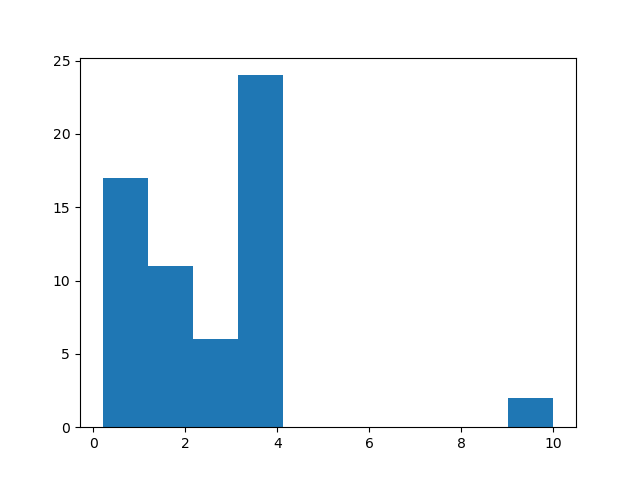
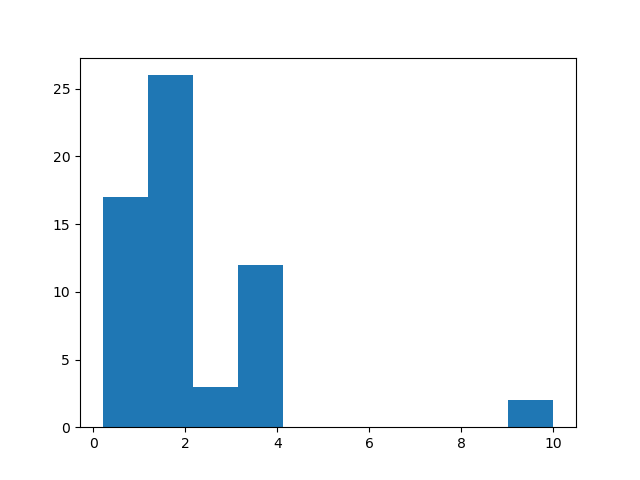
instead of allocating to top server, fifo: 2.2s, leastCon: 2.3408s between the top 20% capacity servers

diff --git a/assignment2/jobScheduler.cpp b/assignment2/jobScheduler.cpp
@@ -20,7 +20,7 @@ using namespace std;
 #include <random>
 #include <queue>
 
-// #define DEBUG 1
+#define DEBUG 1
 #define INITAL_CAPACITY -1
 #define NO_SEND ""
 
@@ -49,6 +49,12 @@ set<string> queried_servers; // Set<ServerName>
 set<string> capacity_query_packets; // Set<FileName>
 queue<string> accumulated_jobs; // Queue<Request>
 set<string> accumulated_jobs_set; // Set<Request>
+map<string, set<string>> server_to_job_map; // Map<ServerName,  Set<FileName>>
+
+// array of top capacity servers,
+vector<string> top_servers; 
+double TOP_SERVERS_PERCENTAGE_SIZE = 0.2;
+size_t TOP_SERVERS_LENGTH = 0; // inits with SERVER_COUNT
 
 size_t SERVER_COUNT = 0;
 
@@ -83,6 +89,7 @@ void printAllServerInfo() {
 
 void initalizeServerInfo(vector<string> server_names) {
     SERVER_COUNT = server_names.size();
+    TOP_SERVERS_LENGTH = TOP_SERVERS_PERCENTAGE_SIZE * SERVER_COUNT;
     for (size_t i = 0; i < server_names.size(); i++) {
         string server_name = server_names[i];
 
@@ -93,6 +100,12 @@ void initalizeServerInfo(vector<string> server_names) {
         si.queue_total_wait_time = 0;
         si.server_capacity = INITAL_CAPACITY;
         server_info_map[server_name] = si;
+        // ----------------------------------------------------
+
+        // ----------------------------------------------------
+        // server_to_job_map
+        set<string> jobs;
+        server_to_job_map[server_name] = jobs;
         // ----------------------------------------------------
     }
 }
@@ -142,11 +155,13 @@ void updateServerInfo(string file_name) {
     num_files_received++;
     #endif
 
+    string assigned_server = job_to_server_allocation_map[file_name];
+    server_to_job_map[assigned_server].erase(file_name); // update which job goes to which server
+
     if (!hasMetadata(file_name)) {
         return;
     }
 
-    string assigned_server = job_to_server_allocation_map[file_name];
     time_t duration = getNowInMilliseconds() - request_start_time_map[file_name];
 
     int size = job_size_map[file_name];
@@ -197,9 +212,13 @@ void insertMetadataBeforeSend(string server_name, string file_name, int request_
 }
 
 string fifoAllocation(vector<string> server_names) {
+    if (server_names.size() == 0) {
+        throw invalid_argument("fifoAllocation server_names provided empty!");
+    }
+
     string server_name = server_names[fifo_index];
     fifo_index++;
-    fifo_index = fifo_index % SERVER_COUNT;
+    fifo_index = fifo_index % server_names.size();
 
     #ifdef DEBUG
     cout << "FIFO ALLOCATED: " << server_name << endl;
@@ -209,6 +228,10 @@ string fifoAllocation(vector<string> server_names) {
 }
 
 string randomAllocation(vector<string> server_names) {
+    if (server_names.size() == 0) {
+        throw invalid_argument("randomAllocation server_names provided empty!");
+    }
+
     const int range_from = 0;
     const int range_to = server_names.size() - 1;
 
@@ -225,14 +248,54 @@ string randomAllocation(vector<string> server_names) {
     return server_names[randomIndex];
 }
 
-// allocates to top capacity server, if unknown will default to random allocation
-string topKnownServerCapacityAllocation(vector<string> server_names, string request) {
-    if (hasAServerCapacity()) {
-        #ifdef DEBUG
-        cout << "ALLOCATED TO TOP SERVER: " << server_info_pq.top().server_name << " | JOB: " << request << endl;
-        #endif
+string leastConnectionAllocation(vector<string> server_names) {
+    if (server_names.size() == 0) {
+        throw invalid_argument("leastConnectionAllocation server_names provided empty!");
+    }
 
-        return server_info_pq.top().server_name;
+    string server_with_least_con = "";
+    size_t min_con = SIZE_MAX;
+    for (size_t i = 0; i < server_names.size(); i++) {
+        string server_name = server_names[i];
+        size_t num_con = server_to_job_map[server_name].size();
+        if (num_con < min_con) {
+            min_con = num_con;
+            server_with_least_con = server_name;
+        }
+    }
+    return server_with_least_con;
+}
+
+int hasTopKnownServersChange() {
+    return top_servers.front() == server_info_pq.top().server_name;
+}
+
+void updateTopKnownServers() {
+    top_servers.clear(); // clear first
+    vector<ServerInfo> buffer; // used to add back to pq and push to top_servers
+    
+    size_t length = TOP_SERVERS_LENGTH < server_info_pq.size()
+        ? TOP_SERVERS_LENGTH
+        : server_info_pq.size();
+
+    for (size_t i = 0; i < length; i++) {
+        buffer.push_back(server_info_pq.top());
+        server_info_pq.pop();
+    }
+
+    // add back to pq and push to top_servers
+    for (size_t i = 0; i < length; i++) {
+        server_info_pq.push(buffer[i]);
+        top_servers.push_back(buffer[i].server_name);
+    }
+}
+
+// allocates to top capacity server, if unknown will default to random allocation
+string topKnownServersCapacityAllocation(vector<string> server_names, string request) {
+    if (hasAServerCapacity()) {
+        updateTopKnownServers();
+        return fifoAllocation(top_servers);
+        // return leastConnectionAllocation(top_servers);
     } else {
         // return randomAllocation(server_names);
         // return accumulateJob(request);
@@ -281,7 +344,7 @@ string getMinimumResponseTimeServer(vector<string> server_names, string file_nam
 
         // return fifoAllocation(server_names);
         // return randomAllocation(server_names);
-        // return topKnownServerCapacityAllocation(server_names);
+        // return topKnownServersCapacityAllocation(server_names);
         // return accumulateJob(request);
         return NO_SEND;
     }
@@ -307,7 +370,7 @@ string handleInvalidRequestSizeAllocation(vector<string> server_names, string re
     // TODO
     // return fifoAllocation(server_names);
     // return randomAllocation(server_names);
-    return topKnownServerCapacityAllocation(server_names, request);
+    return topKnownServersCapacityAllocation(server_names, request);
 }
 
 string allocateToServer(vector<string> server_names, string file_name, string request, int request_size) {
@@ -432,6 +495,8 @@ string assignServerToRequest(vector<string> server_names, string request) {
         num_files_sent++;
         cout << "SENT PACKET: " << request << " TO SERVER: " << server_to_send << endl;
         #endif
+
+        server_to_job_map[server_to_send].insert(file_name); // update which job goes to which server
 
         return scheduleJobToServer(server_to_send, request);;
     } else {
